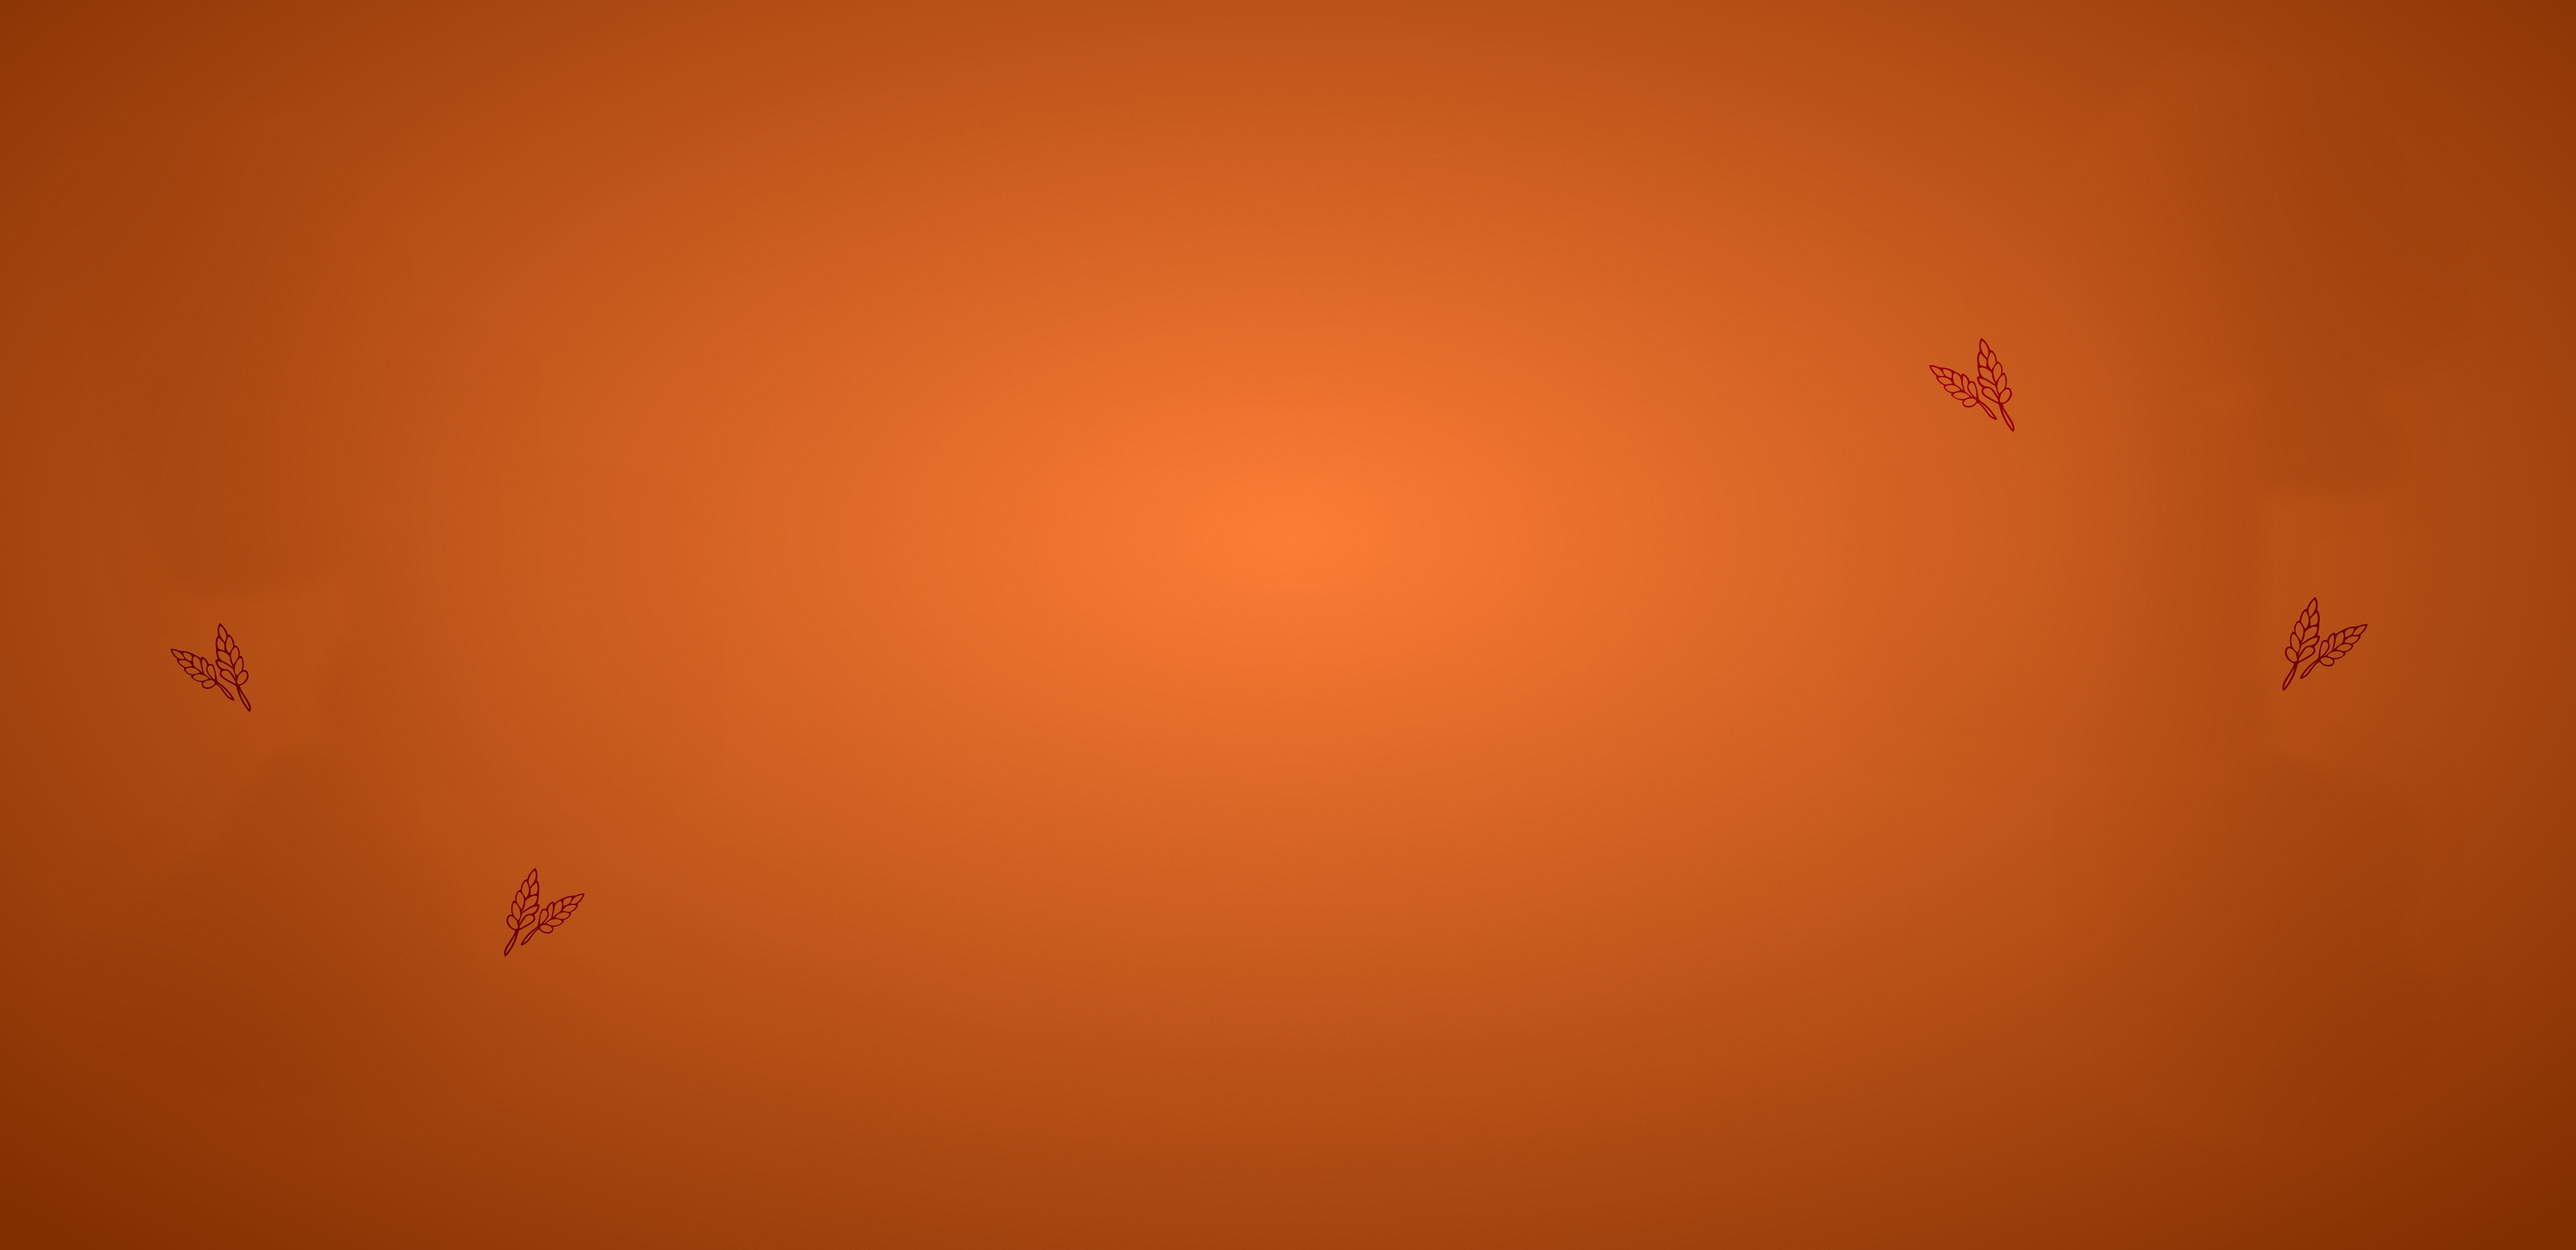
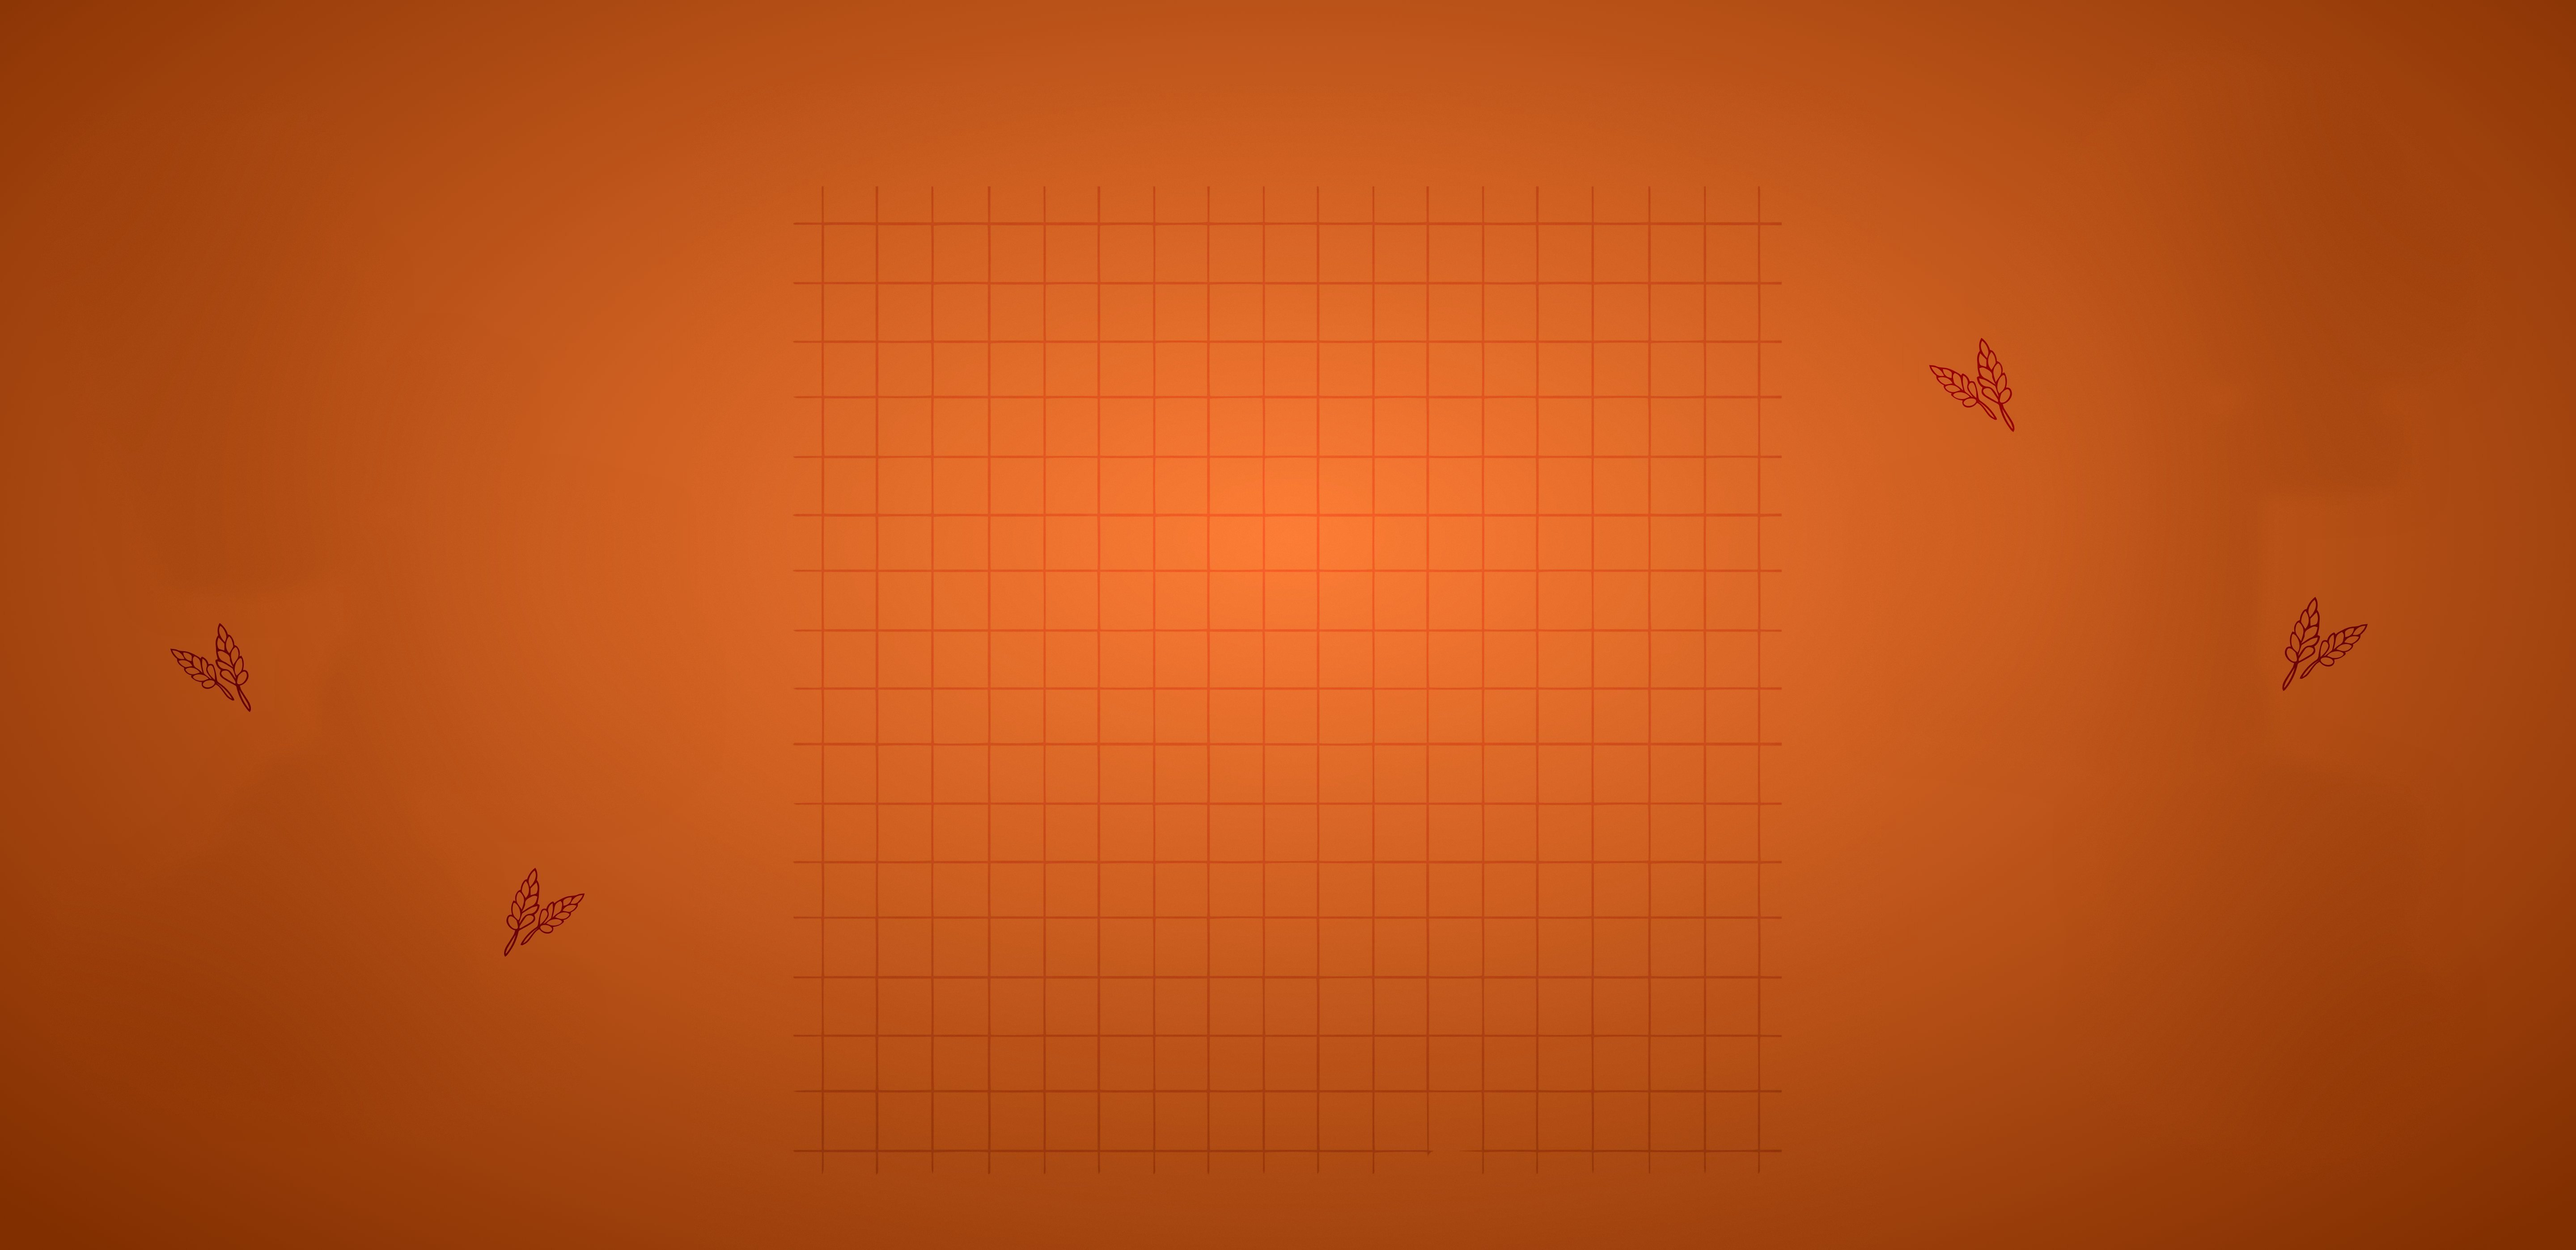
Bake full grid into hero backgrounds
- Updated desktop and mobile hero background images
- Remove the CSS grid overlay behind the bowl (superseded)

Claude-Session: https://claude.ai/code/session_01DxgpEQtUEhHGoBwbBotet4

diff --git a/frontend/src/home.css b/frontend/src/home.css
@@ -178,18 +178,3 @@
 }
 @media (max-width:860px){.hero-doodle{--amp:.6;}}
 @media (prefers-reduced-motion: reduce){.hero-doodle{animation:none;}}
-
-/* Soft square grid sitting just behind the bowl, fading out at its edges */
-.home-v2 .hero-scrub-wrap::after{
-  content:"";position:absolute;z-index:-1;pointer-events:none;
-  left:50%;top:58%;width:92%;aspect-ratio:1/0.78;transform:translate(-50%,-50%);
-  background-image:
-    linear-gradient(rgba(110,28,8,0.42) 1px,transparent 1px),
-    linear-gradient(90deg,rgba(110,28,8,0.42) 1px,transparent 1px);
-  background-size:46px 46px;background-position:center center;
-  -webkit-mask-image:radial-gradient(ellipse at center,#000 30%,rgba(0,0,0,0.5) 55%,transparent 72%);
-          mask-image:radial-gradient(ellipse at center,#000 30%,rgba(0,0,0,0.5) 55%,transparent 72%);
-}
-@media (max-width:700px){
-  .home-v2 .hero-scrub-wrap::after{width:96%;background-size:30px 30px;}
-}
